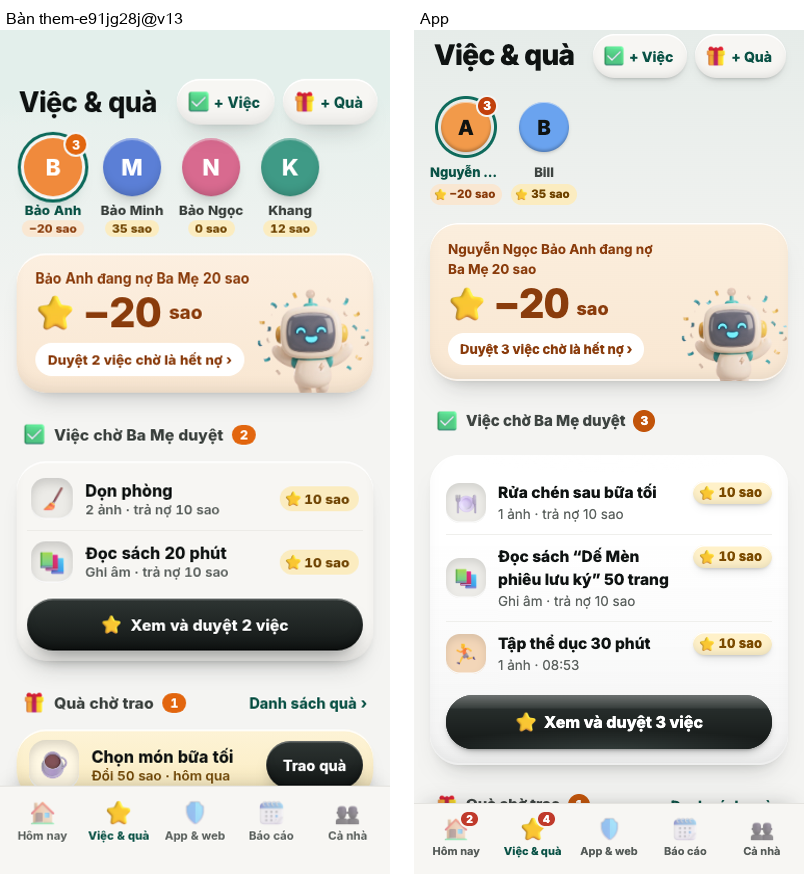
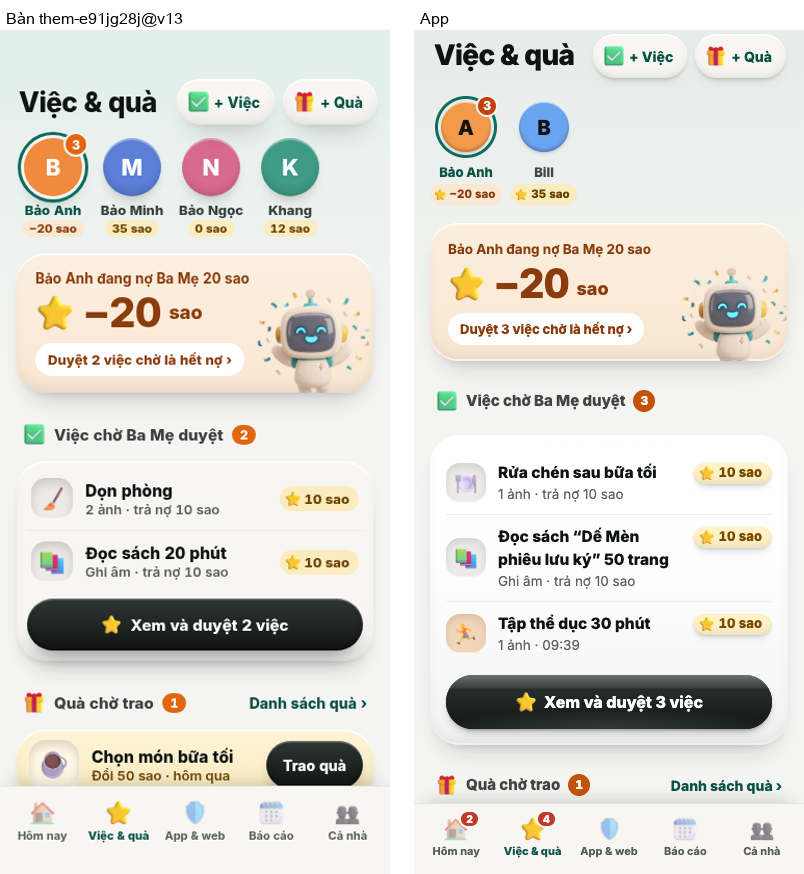
Sửa theo review #346: trống mà đang nợ vẫn hiện ví + «+ Quà», tên gọi ngắn, nút xoá đỏ đặc
Claude-Session: https://claude.ai/code/session_01DSu591D8CbBg6o268DT8cz

Changed region(s): [[0.5286, 0.5252, 0.9639, 0.9268], [0.5286, 0.278, 0.995, 0.4943], [0.5286, 0.1854, 0.6219, 0.2162]]

diff --git a/mobile/src/app/(tab)/diem-qua.tsx b/mobile/src/app/(tab)/diem-qua.tsx
@@ -11,7 +11,7 @@ import { KHOI } from "@/lib/clay";
 import {
   ChoTai, Chu, gioPhut, Icon, Icon3D, M, Man, NhanMen, Nut, Rob, The, useHoanTac, useTai, type TenIcon,
 } from "@/lib/ui";
-import { cachBao, cauLapLai, HangViec, hinhNv, SaoVien, TieuMuc, type LuotChoMoi, type PhieuCho } from "@/lib/hang-ngay";
+import { cachBao, cauLapLai, HangViec, hinhNv, SaoVien, tenGoi, TieuMuc, type LuotChoMoi, type PhieuCho } from "@/lib/hang-ngay";
 import { KHOA_NV_TAB, napNvTab, viecCuaCon } from "@/lib/nv-tab";
 import { DaiCon, OLomIcon } from "@/lib/ui-viec";
 import { BangTraoQua } from "@/lib/trao-qua";
@@ -61,27 +61,30 @@ export default function TabNhiemVu() {
   // sao việc chờ trả nợ lần lượt (theo thứ tự hiện)
   const traNo = traNoLanLuot(ss.no, cua.cho.map((x) => x.sao ?? x.diem)).map((x) => x.tra);
   const tongCho = cua.cho.reduce((n, x) => n + (x.sao ?? x.diem), 0);
-  // them-e44cwmvu: Con chưa có việc nào (và không có gì chờ) ⇒ chỉ dải con + «Ngày của <Con> còn trống», không thẻ ví, không nút «+ Việc / + Quà»
+  // them-e44cwmvu: Con chưa có việc nào (và không có gì chờ) ⇒ chỉ dải con + «Ngày của <Con> còn trống», không thẻ ví, không nút «+ Việc / + Quà».
+  // Đang nợ (#263) thì vẫn hiện thẻ ví (cảnh báo nợ) và «+ Quà» — không giấu nợ chỉ để giống hình.
   const trong = !cua.viec.length && !cua.cho.length && !cua.phieu.length;
+  const anVi = trong && ss.no <= 0;
+  const ten = tenGoi(c.ten);
   return (
     <Man tieuLon="Việc & quà" tai={tai} vongTai noi={noi}
-      phaiTieu={baMe && !trong ? (
+      phaiTieu={baMe && !anVi ? (
         // thiết kế .them (them-e91jg28j@v13): hai viên sáng 44 — «✅ + Việc» (→ Giao việc) · «🎁 + Quà» (→ Thêm quà), icon 3D 22, chữ 14/800 ngọc
         <View style={{ flexDirection: "row", gap: 8 }}>
-          <NutThem ic="tick" chu="+ Việc" nhan="Thêm việc" bam={() => router.push(`/giao-nv?con=${c.id}` as never)} />
+          {trong ? null : <NutThem ic="tick" chu="+ Việc" nhan="Thêm việc" bam={() => router.push(`/giao-nv?con=${c.id}` as never)} />}
           <NutThem ic="qua" chu="+ Quà" nhan="Thêm quà" bam={() => router.push({ pathname: "/vi/qua-thu-vien", params: { con: c.id } })} />
         </View>
       ) : undefined}>
-      {d.g.con.length > 1 ? <DaiCon ds={d.g.con} chon={c.id} doi={(x) => setChon(x.id)} so={soCho}
+      {d.g.con.length > 1 ? <DaiCon ds={d.g.con.map((x) => ({ ...x, ten: tenGoi(x.ten) }))} chon={c.id} doi={(x) => setChon(x.id)} so={soCho}
         duoi={Object.fromEntries(d.g.con.map((x) => [x.id, <VienSao key={x.id} s={saoTu(x)} nho />]))} /> : null}
 
       {/* thiết kế .vi: thẻ vàng — «<Con> đang có» · ⭐ 30 sao (40/800) · viên trắng «= 30 phút chơi ›»; đang nợ ⇒ thẻ cảnh báo «<Con> đang nợ Ba Mẹ 20 sao» */}
-      {trong ? null : <Pressable onPress={() => router.push(`/vi/${c.id}` as never)} accessibilityRole="button" accessibilityLabel={`Ví sao của ${c.ten}: ${soChinh(ss)}`}
+      {anVi ? null : <Pressable onPress={() => router.push(`/vi/${c.id}` as never)} accessibilityRole="button" accessibilityLabel={`Ví sao của ${ten}: ${soChinh(ss)}`}
         style={[{ paddingVertical: 16, paddingHorizontal: 18, borderRadius: 28, overflow: "hidden" },
           k === "thuong" ? { backgroundColor: "#fcefc6", backgroundImage: "linear-gradient(#fdf0c9, #fbecc0)" } : { backgroundColor: MAU_NO.nen, backgroundImage: "linear-gradient(#fbeedd, #f9e7d2)" }, KHOI.the]}>
         <View pointerEvents="none" style={{ position: "absolute", right: -4, bottom: -18 }}><Rob ten="xong" co={112} /></View>
         <Chu kieu="dam7" co={13.5} mau={k === "thuong" ? "#5a3700" : MAU_NO.chu} style={{ marginRight: 116 }}>
-          {k === "thuong" ? `${c.ten} đang có` : `${c.ten} đang nợ Ba Mẹ ${soVN(ss.no)} sao`}</Chu>
+          {k === "thuong" ? `${ten} đang có` : `${ten} đang nợ Ba Mẹ ${soVN(ss.no)} sao`}</Chu>
         <View style={{ flexDirection: "row", alignItems: "center", gap: 8, marginTop: 2, marginRight: 100 }}>
           <Icon3D ten="sao" co={38} />
           {k === "vay" ? <Chu kieu="rat" co={20} mau={MAU_NO.chu} so style={{ flexShrink: 1 }}>{soChinh(ss)}</Chu> : <>
@@ -145,7 +148,7 @@ export default function TabNhiemVu() {
           </The>
         </>
       ) : (
-        <ViecTrong con={c.id} ten={c.ten} baMe={baMe} />
+        <ViecTrong con={c.id} ten={ten} baMe={baMe} />
       )}
 
       <BangTraoQua p={trao} dong={() => setTrao(null)} xong={(chu) => { bao(chu); tai(); }} />

diff --git a/mobile/src/app/giao-nv/sua.tsx b/mobile/src/app/giao-nv/sua.tsx
@@ -11,7 +11,7 @@ import { Pressable, TextInput, View } from "react-native";
 import { BONG, KHOI } from "@/lib/clay";
 import { bm, type GiaDinh } from "@/lib/api";
 import { BangTruot, Bao, BaoLoi, baoKhiVe, Chips, ChoTai, Chu, CongTac, F, Icon3D, M, Man, Nut, ONhap, The, useLam, useTai, type TenIcon } from "@/lib/ui";
-import { CAU_TRONG_GIUP, hinhNv, quyenToi, type NhiemVuMoi } from "@/lib/hang-ngay";
+import { CAU_TRONG_GIUP, hinhNv, quyenToi, tenGoi, type NhiemVuMoi } from "@/lib/hang-ngay";
 import { viecCuaCon } from "@/lib/nv-tab";
 import { tenHopLe } from "@/lib/form-viec";
 import { ChonO } from "@/lib/ui-viec";
@@ -57,7 +57,7 @@ export default function SuaViec() {
   const dsBao = BAO.some((x) => x.gia === bcGoc) ? BAO : [...BAO, { gia: bcGoc, chu: bcGoc === "van_ban" ? "Viết" : bcGoc, ic: "but" as const }];
   const dsSao = [5, 10, 20, 30].includes(goc.sao) ? [5, 10, 20, 30] : [...[5, 10, 20, 30], goc.sao].sort((a, b) => a - b);
   const conCua = v.giao_cho ? d.con.find((c) => c.id === v.giao_cho) : null;
-  const tenCon = conCua?.ten ?? "Các con";
+  const tenCon = conCua ? tenGoi(conCua.ten) : "Các con";
   const conLai = conCua ? viecCuaCon(d.ds, conCua.id).filter((x) => x.id !== v.id).length : null;
   const [ic] = hinhNv({ ...v, hinh: f.hinh || v.hinh });
 
@@ -130,10 +130,10 @@ export default function SuaViec() {
         <View style={[{ gap: 12, padding: 16, borderRadius: 24, backgroundColor: M.the }, KHOI.nho]}>
           <DongXoa ic="tablet" chu={`${tenCon} không thấy việc này nữa`} />
           <DongXoa ic="sao" chu={conCua ? `${conCua.soDu} sao con đang có vẫn giữ nguyên` : "Sao con đang có vẫn giữ nguyên"} />
-          {conCua && conLai !== null ? <DongXoa ic="lich" chu={`Ngày của ${conCua.ten} còn ${conLai} việc`} /> : null}
+          {conCua && conLai !== null ? <DongXoa ic="lich" chu={`Ngày của ${tenCon} còn ${conLai} việc`} /> : null}
         </View>
         <BaoLoi loi={loiLam} />
-        <Nut chu={`Xoá «${v.ten}»`} loai="huy" rong dangChay={dangChay} bam={tat} />
+        <Nut chu={`Xoá «${v.ten}»`} loai="do" rong dangChay={dangChay} bam={tat} />
         <Nut chu="Giữ lại việc này" loai="vien" rong bam={() => setXoa(false)} />
       </BangTruot>
     </Man>
